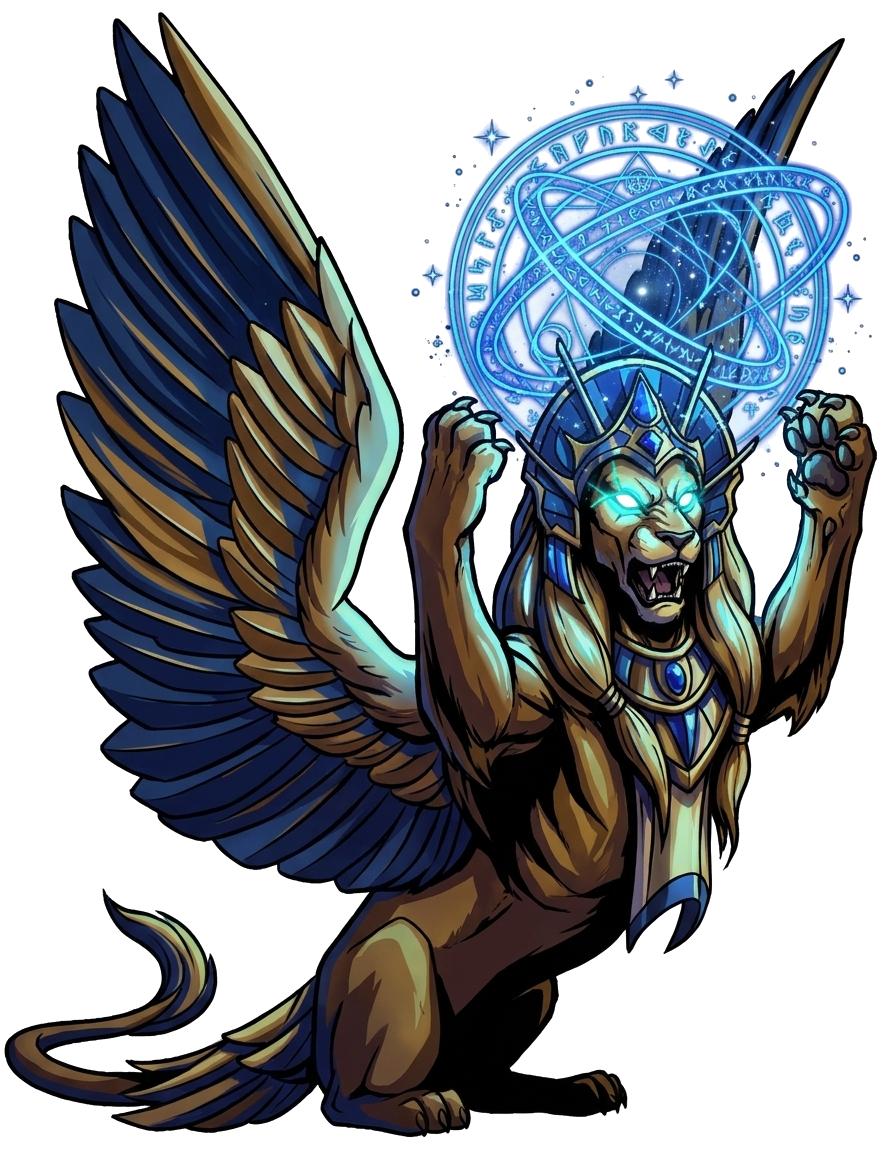
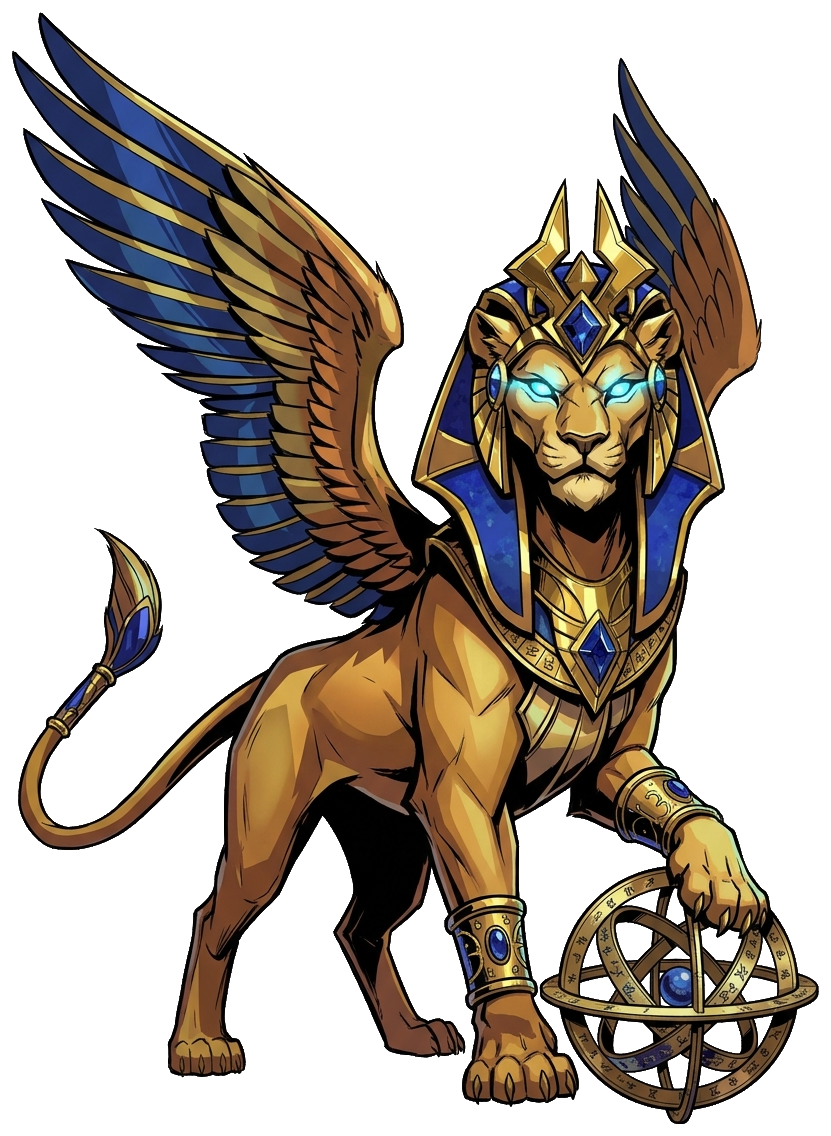
fix(art): regenerate blue_03_esfinge (Oraculo Esfinge do Pinaculo) with symmetrical glowing eyes and solid brass-and-sapphire astrolabe

diff --git a/src/components/CardView.tsx b/src/components/CardView.tsx
@@ -363,7 +363,7 @@ export const CardView: React.FC<CardViewProps> = ({
           <div className={`mtg-token-art aura-${displayCard.domain}`}>
             {!imgError && displayCard.imagePath ? (
               <img
-                src={`${displayCard.imagePath}?v=41`}
+                src={`${displayCard.imagePath}?v=42`}
                 alt={displayName}
                 className="mtg-token-img"
                 onError={() => setImgError(true)}
@@ -520,7 +520,7 @@ export const CardView: React.FC<CardViewProps> = ({
 
           {!imgError && displayCard.imagePath ? (
             <img
-              src={`${displayCard.imagePath}?v=41`}
+              src={`${displayCard.imagePath}?v=42`}
               alt={displayName}
               className="card-cutout-img"
               onError={() => setImgError(true)}

diff --git a/src/components/MythologyAtlasView.tsx b/src/components/MythologyAtlasView.tsx
@@ -342,7 +342,7 @@ export const MythologyAtlasView: React.FC<MythologyAtlasViewProps> = ({ onInspec
                         title={`Clique para inspecionar ${card.name}`}
                       >
                         <img
-                          src={`${card.imagePath}?v=14`}
+                          src={`${card.imagePath}?v=15`}
                           alt={card.name}
                           className="poem-card-medallion-img"
                           loading="lazy"
